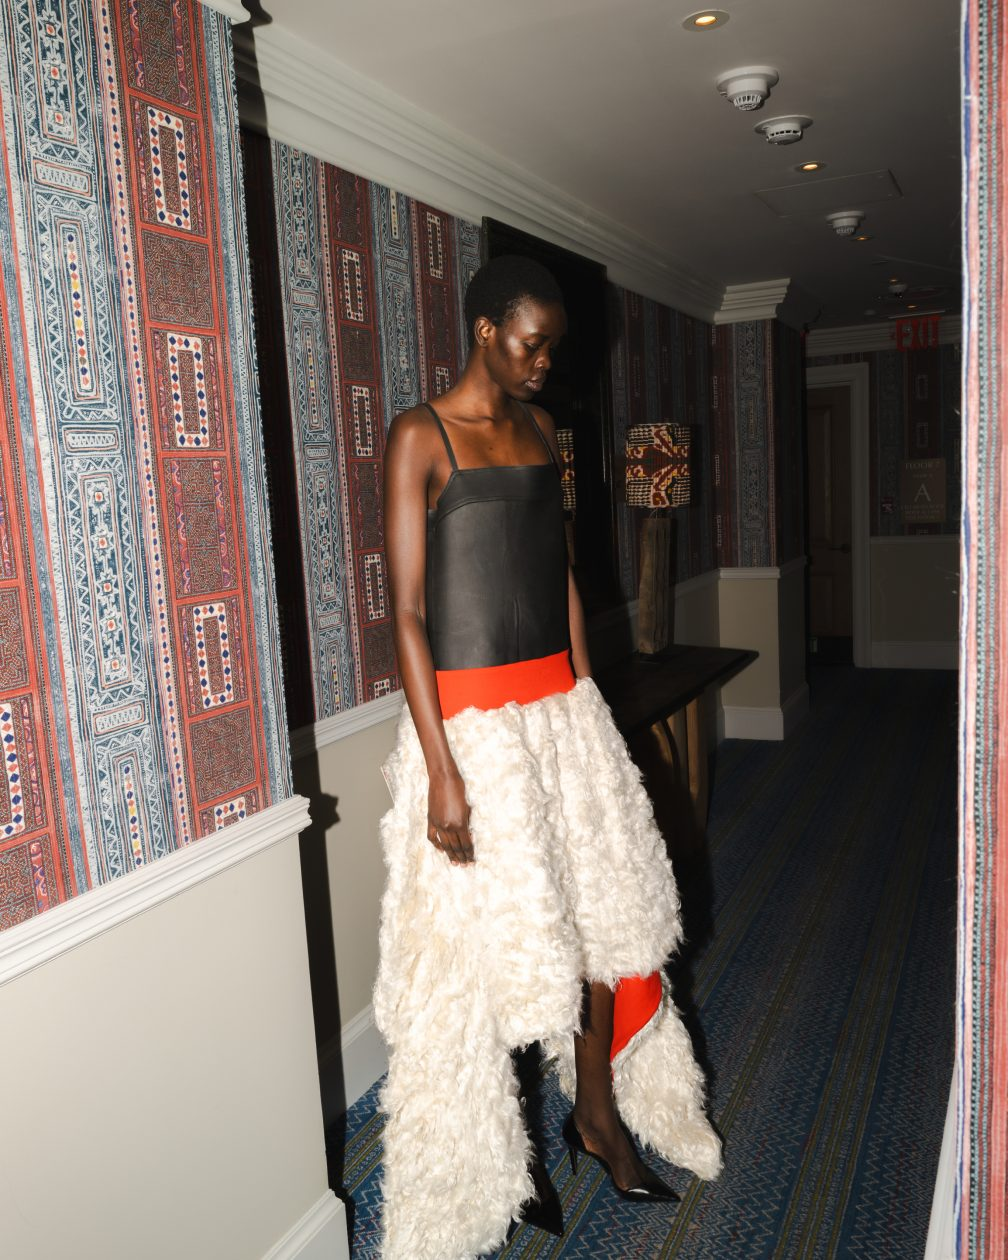
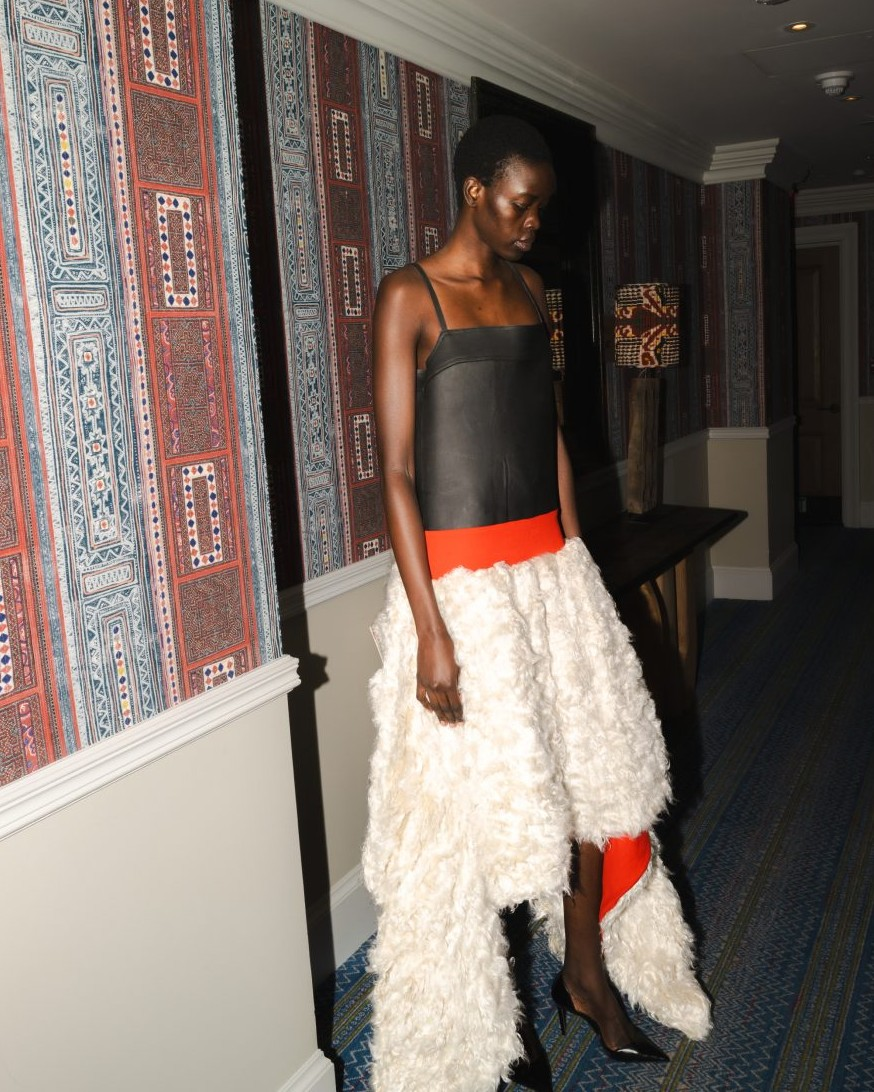
updates 1

diff --git a/assets/engine.js b/assets/engine.js
@@ -182,7 +182,7 @@
   };
   var COPY = {
     "I grew up in": "I grew up in Belo Horizonte, Brazil, and moved to Philadelphia at 18 to study <b class=\"w\">international relations</b>. My first job was in India, interning at the social impact team of <b class=\"w\">the country’s largest garment manufacturer</b>. In NYC, I’ve done a bit of everything: consulting, modeling, and over 5 years of helping companies become <b class=\"w\">B Corps</b> — the highest global sustainability rating. In 2025, I founded JCVD as a laboratory of sorts.",
-    "JCVD is now a design": "JCVD is now a design studio — part sourcing agency, <b class=\"w\">part production manager, and wholeheartedly a connector</b>. Ultimately, I’m working to bring Brazil to the world, e o mundo de volta ao Brasil.<br><br>Bora nessa juntos?",
+    "JCVD is now a design": "JCVD is now a design studio — <b class=\"w\">part sourcing agency, part production manager, and wholeheartedly a connector</b>. Ultimately, I’m working to bring Brazil to the world, e o mundo de volta ao Brasil.<br><br>Bora nessa juntos?",
     "With a focus on": "With a focus on accessories, <b class=\"w\">I design products for the JCVD brand and for select global clients</b>. My design philosophy is shaped by Brazilian modernism, nature’s raw beauty, and contrasting textures. I call it ecobrutalista.",
     "Each one of my projects": "My projects explore the full life cycle of a product, <b class=\"w\">from design and production to partnerships and fulfillment</b>. My network spans Brazil, the U.S., and beyond, helping deliver solutions to creative and commercial challenges. My sweet spot is finding where a beautiful image meets an even better story — and sharing that story across the globe.<br><br><a class=\"go\" data-to=\"contact\"><u>Reach out</u></a> to explore custom projects.",
     "explore collections": "<u>Explore collections.</u>"
@@ -326,7 +326,7 @@
     else { nodes.forEach(function (nd) { nd.hidden = true; }); cum = cum.map(function () { return 0; }); }   // built page: plain scrolling
     var L = C.links, o = { align: "center" }, parts = [], y = 0;
     function t(html, gap) { var nd = mText(html, x, 0, w, o); parts.push([nd, y]); y += nd.n.offsetHeight + gap; }
-    t("Showroom appointments, custom projects and products, press:", 8);
+    t("Showrooms, appointments, custom projects and<br>products, press inquiries:", 8);
     t('<a href="mailto:' + L.email + '">' + L.email + '</a><br><a href="mailto:' + L.press + '">' + L.press + "</a>", M2.l);
     t('Marcas e produtores no Brasil:<br><a href="' + L.whatsapp + '" target="_blank" rel="noopener"><u>pode vir de zap</u></a>', M2.l);
     var row = [["icon-d4.png", 28, 28, L.instagram], ["icon-d5.png", 30, 27, L.linkedin], ["icon-wa.svg", 28, 28, L.whatsapp]], gapI = 24;
@@ -1309,8 +1309,8 @@
     clearInterval(carTimer);
     if (animate) {
       stage.classList.add("out");
-      setTimeout(function () { mount(r.scene, r); stage.classList.remove("out"); }, flying ? 520 : 260);
-    } else mount(r.scene, r);
+      clearTimeout(go_.t); go_.t = setTimeout(function () { mount(r.scene, r); stage.classList.remove("out"); }, flying ? 520 : 260);   // a newer click always wins
+    } else { clearTimeout(go_.t); mount(r.scene, r); }
     current = r.scene;
     var TT = { home: "", about: "About", projects: "Projects", products: "Products", contact: "Contact", policies: "Policies", partners: "Partner products" };
     var t = r.soon ? "Shop coming soon" : r.scene === "case" || r.scene === "case2" ? C.cases[r.i] && C.cases[r.i].title : TT[r.scene] !== undefined ? TT[r.scene] : r.scene === "e404" ? "Page not found" : "";
@@ -1374,9 +1374,10 @@
   layout(); drawCart(); go_(false);
   /* first load of Home: background, then J, C, V, D, then the sentence, then the menu, each after the previous has loaded */
   (function intro() {
-    if (current !== "home") return;
+    var boot = function () { document.documentElement.classList.remove("boot"); };
+    if (current !== "home") { boot(); return; }
     var b = document.body, tiles = $$(".tile", tilesBox);
-    b.classList.add("intro");
+    b.classList.add("intro"); requestAnimationFrame(boot);   // nothing of the logo shows before its intro starts
     var wait = function (src) { return new Promise(function (r) { var i = new Image(); i.onload = i.onerror = function () { r(); }; i.src = src; if (i.complete) r(); }); };
     var sleep = function (ms) { return new Promise(function (r) { setTimeout(r, ms); }); };
     var BEAT = 400;   // one steady beat between every element

diff --git a/assets/engine.css b/assets/engine.css
@@ -183,7 +183,10 @@ body.cart-open #cart { visibility: visible; transition: transform .5s var(--ease
 /* intro: letter shape first, then the whole carved tile */
 #tiles .tile img.lm { opacity: 0; transform: translateY(14px); -webkit-mask-size: 100% 100%; mask-size: 100% 100%; -webkit-mask-repeat: no-repeat; mask-repeat: no-repeat; transition: opacity .75s cubic-bezier(.33,0,.2,1), transform .9s cubic-bezier(.22,.61,.36,1); pointer-events: none; }
 body.intro #tiles .tile.in img.lm { opacity: 1; transform: none; }
-body.intro #tiles .tile img:not(.s):not(.lm) { opacity: 0; transition: opacity .9s cubic-bezier(.33,0,.2,1); }
-body.intro.intro-full #tiles .tile img:not(.s):not(.lm) { opacity: 1; }
+body.intro #tiles .tile img:not(.s):not(.lm) { opacity: 0; transition: none; }
+body.intro.intro-full #tiles .tile img:not(.s):not(.lm) { opacity: 1; transition: opacity .9s cubic-bezier(.33,0,.2,1); }
 body.intro.intro-full #tiles .tile img.lm { opacity: 0; transition: opacity .9s cubic-bezier(.33,0,.2,1) .15s; }
 body.intro #tiles .tile:not(.in) { opacity: 1 !important; }
+
+/* first paint: hide everything but the wall until the script decides (Home intro or a plain page) */
+html.boot #tiles, html.boot #menu, html.boot #stage, html.boot #footer { opacity: 0 !important; transition: none !important; }

diff --git a/404.html b/404.html
@@ -3,6 +3,8 @@
 <head>
 <meta charset="utf-8">
 <base href="/">
+<script>document.documentElement.classList.add("boot");setTimeout(function(){document.documentElement.classList.remove("boot")},6000)</script>
+
 <meta name="viewport" content="width=device-width,initial-scale=1,maximum-scale=1,viewport-fit=cover">
 <title>JCVD · sustainable design studio, Brooklyn &amp; Brazil</title>
 <meta name="description" content="JCVD is a sustainable design studio with one foot in Brooklyn and the other in Brazil: material sourcing, production and accessories.">

diff --git a/about/index.html b/about/index.html
@@ -3,6 +3,8 @@
 <head>
 <meta charset="utf-8">
 <base href="/">
+<script>document.documentElement.classList.add("boot");setTimeout(function(){document.documentElement.classList.remove("boot")},6000)</script>
+
 <meta name="viewport" content="width=device-width,initial-scale=1,maximum-scale=1,viewport-fit=cover">
 <title>JCVD · sustainable design studio, Brooklyn &amp; Brazil</title>
 <meta name="description" content="JCVD is a sustainable design studio with one foot in Brooklyn and the other in Brazil: material sourcing, production and accessories.">

diff --git a/c-inverno-2026/index.html b/c-inverno-2026/index.html
@@ -3,6 +3,8 @@
 <head>
 <meta charset="utf-8">
 <base href="/">
+<script>document.documentElement.classList.add("boot");setTimeout(function(){document.documentElement.classList.remove("boot")},6000)</script>
+
 <meta name="viewport" content="width=device-width,initial-scale=1,maximum-scale=1,viewport-fit=cover">
 <title>JCVD · sustainable design studio, Brooklyn &amp; Brazil</title>
 <meta name="description" content="JCVD is a sustainable design studio with one foot in Brooklyn and the other in Brazil: material sourcing, production and accessories.">

diff --git a/c-outono-2026/index.html b/c-outono-2026/index.html
@@ -3,6 +3,8 @@
 <head>
 <meta charset="utf-8">
 <base href="/">
+<script>document.documentElement.classList.add("boot");setTimeout(function(){document.documentElement.classList.remove("boot")},6000)</script>
+
 <meta name="viewport" content="width=device-width,initial-scale=1,maximum-scale=1,viewport-fit=cover">
 <title>JCVD · sustainable design studio, Brooklyn &amp; Brazil</title>
 <meta name="description" content="JCVD is a sustainable design studio with one foot in Brooklyn and the other in Brazil: material sourcing, production and accessories.">

diff --git a/c-primavera-2026/index.html b/c-primavera-2026/index.html
@@ -3,6 +3,8 @@
 <head>
 <meta charset="utf-8">
 <base href="/">
+<script>document.documentElement.classList.add("boot");setTimeout(function(){document.documentElement.classList.remove("boot")},6000)</script>
+
 <meta name="viewport" content="width=device-width,initial-scale=1,maximum-scale=1,viewport-fit=cover">
 <title>JCVD · sustainable design studio, Brooklyn &amp; Brazil</title>
 <meta name="description" content="JCVD is a sustainable design studio with one foot in Brooklyn and the other in Brazil: material sourcing, production and accessories.">

diff --git a/case-0/index.html b/case-0/index.html
@@ -3,6 +3,8 @@
 <head>
 <meta charset="utf-8">
 <base href="/">
+<script>document.documentElement.classList.add("boot");setTimeout(function(){document.documentElement.classList.remove("boot")},6000)</script>
+
 <meta name="viewport" content="width=device-width,initial-scale=1,maximum-scale=1,viewport-fit=cover">
 <title>JCVD · sustainable design studio, Brooklyn &amp; Brazil</title>
 <meta name="description" content="JCVD is a sustainable design studio with one foot in Brooklyn and the other in Brazil: material sourcing, production and accessories.">

diff --git a/case-1/index.html b/case-1/index.html
@@ -3,6 +3,8 @@
 <head>
 <meta charset="utf-8">
 <base href="/">
+<script>document.documentElement.classList.add("boot");setTimeout(function(){document.documentElement.classList.remove("boot")},6000)</script>
+
 <meta name="viewport" content="width=device-width,initial-scale=1,maximum-scale=1,viewport-fit=cover">
 <title>JCVD · sustainable design studio, Brooklyn &amp; Brazil</title>
 <meta name="description" content="JCVD is a sustainable design studio with one foot in Brooklyn and the other in Brazil: material sourcing, production and accessories.">

diff --git a/case-2/index.html b/case-2/index.html
@@ -3,6 +3,8 @@
 <head>
 <meta charset="utf-8">
 <base href="/">
+<script>document.documentElement.classList.add("boot");setTimeout(function(){document.documentElement.classList.remove("boot")},6000)</script>
+
 <meta name="viewport" content="width=device-width,initial-scale=1,maximum-scale=1,viewport-fit=cover">
 <title>JCVD · sustainable design studio, Brooklyn &amp; Brazil</title>
 <meta name="description" content="JCVD is a sustainable design studio with one foot in Brooklyn and the other in Brazil: material sourcing, production and accessories.">

diff --git a/collections/index.html b/collections/index.html
@@ -3,6 +3,8 @@
 <head>
 <meta charset="utf-8">
 <base href="/">
+<script>document.documentElement.classList.add("boot");setTimeout(function(){document.documentElement.classList.remove("boot")},6000)</script>
+
 <meta name="viewport" content="width=device-width,initial-scale=1,maximum-scale=1,viewport-fit=cover">
 <title>JCVD · sustainable design studio, Brooklyn &amp; Brazil</title>
 <meta name="description" content="JCVD is a sustainable design studio with one foot in Brooklyn and the other in Brazil: material sourcing, production and accessories.">

diff --git a/contact/index.html b/contact/index.html
@@ -3,6 +3,8 @@
 <head>
 <meta charset="utf-8">
 <base href="/">
+<script>document.documentElement.classList.add("boot");setTimeout(function(){document.documentElement.classList.remove("boot")},6000)</script>
+
 <meta name="viewport" content="width=device-width,initial-scale=1,maximum-scale=1,viewport-fit=cover">
 <title>JCVD · sustainable design studio, Brooklyn &amp; Brazil</title>
 <meta name="description" content="JCVD is a sustainable design studio with one foot in Brooklyn and the other in Brazil: material sourcing, production and accessories.">
